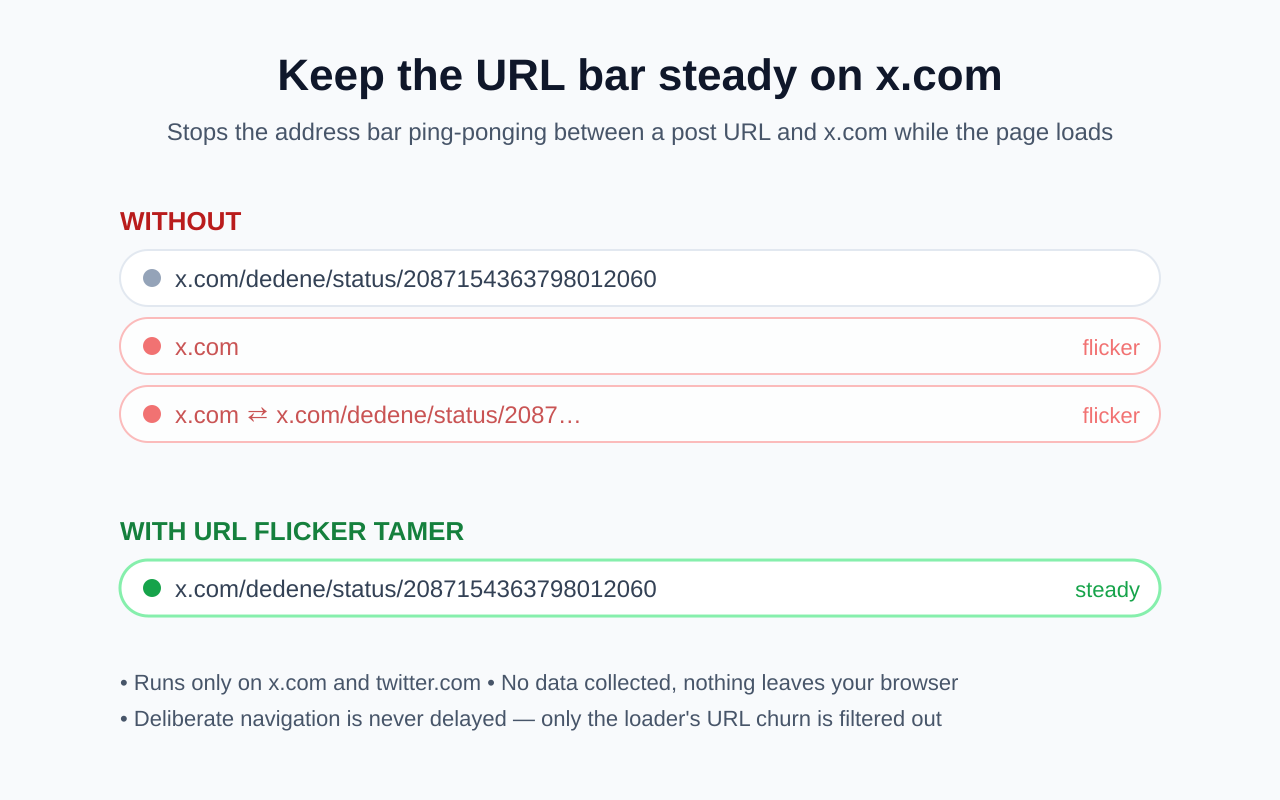
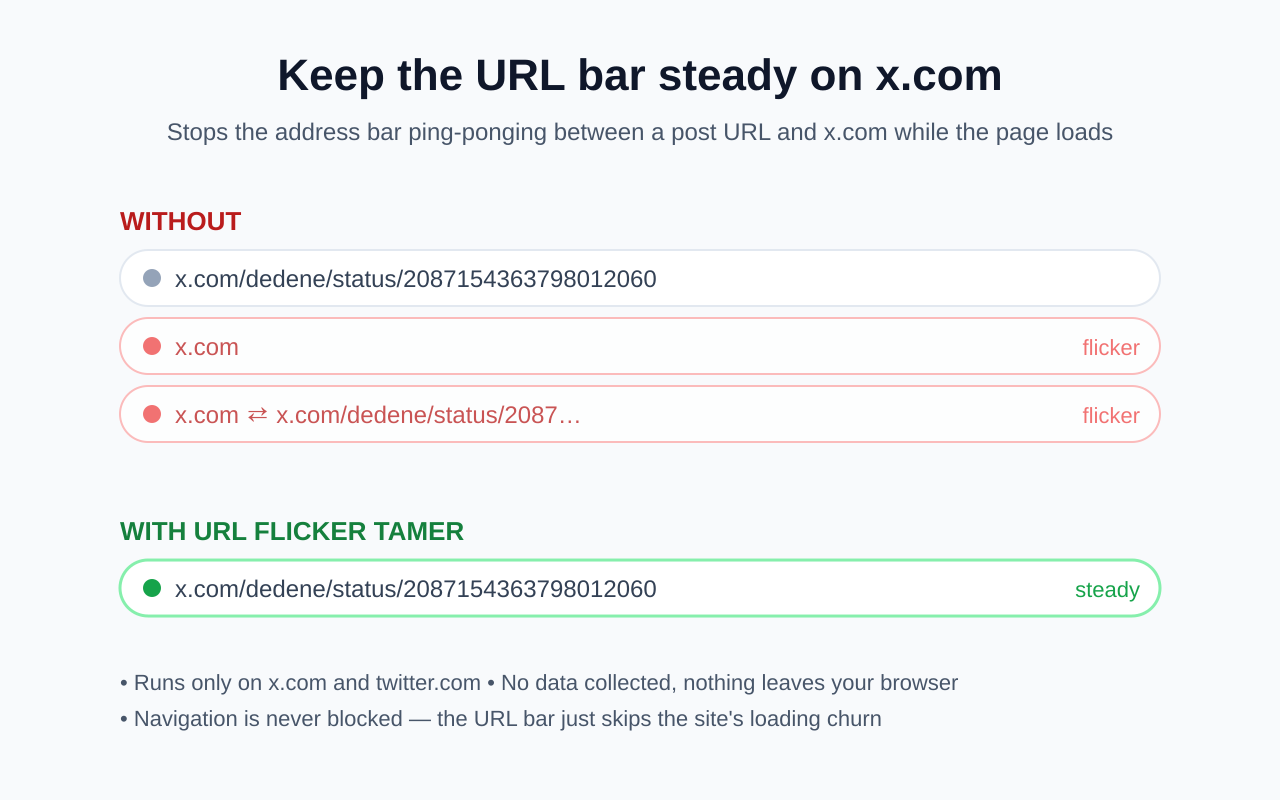
v1.0.1: hold root flips even inside the gesture window
v1.0.0 skipped the hold entirely when a flip-to-root followed a user
gesture within 1s, which let click-navigation flicker through (e.g.
clicking a post from the timeline). Now every root flip is held: 200ms
after a gesture (imperceptible for a genuine Home click, still catches
the tens-of-ms reversal), 400ms otherwise.

Changed region(s): [[0.0938, 0.875, 0.75, 0.9062]]

diff --git a/tamer.js b/tamer.js
@@ -12,19 +12,22 @@
 // that reads as flicker.
 //
 // Strategy: when the router flips the URL to "/" or "/home" while we're on a
-// deeper path AND the user hasn't interacted recently, hold that change for
-// HOLD_MS. If the very next call goes back to a deep URL (the flicker
-// pattern), drop the held root change entirely. If nothing follows, it was a
-// genuine programmatic navigation home — apply it, just HOLD_MS late.
+// deeper path, hold that change briefly. If the very next call goes back to
+// a deep URL (the flicker pattern), drop the held root change entirely. If
+// nothing follows, it was a genuine navigation home — apply it, just late.
 //
-// Deliberate navigations (clicking Home, keyboard shortcuts) always follow a
-// user gesture within milliseconds, so anything within GESTURE_MS of a
-// pointer/key event passes through with zero delay. Hydration churn fires
-// with no gesture anywhere near it, so only it pays the hold.
+// The hold length depends on user gesture: within GESTURE_MS of a click or
+// keypress the flip might be a deliberate "go Home", so hold only
+// GESTURE_HOLD_MS — short enough to be imperceptible on the URL bar, long
+// enough to catch a reversal, which arrives within tens of ms. Gesture-less
+// flips are pure router churn and get the full HOLD_MS. (v1.0.0 skipped the
+// hold entirely inside the gesture window, which let click-navigation
+// flicker through — e.g. clicking a post from the timeline.)
 (() => {
   'use strict';
 
   const HOLD_MS = 400;
+  const GESTURE_HOLD_MS = 200;
   const GESTURE_MS = 1000;
 
   let lastGesture = -Infinity;
@@ -77,14 +80,14 @@
         pending = null;
       }
 
-      const recentGesture = performance.now() - lastGesture < GESTURE_MS;
-      if (isBareRoot(target) && !isBareRoot(location.href) && !recentGesture) {
+      if (isBareRoot(target) && !isBareRoot(location.href)) {
+        const recentGesture = performance.now() - lastGesture < GESTURE_MS;
         pending = {
           native,
           args,
           url: target,
           state: args[0],
-          timer: setTimeout(flushPending, HOLD_MS),
+          timer: setTimeout(flushPending, recentGesture ? GESTURE_HOLD_MS : HOLD_MS),
         };
         return;
       }

diff --git a/README.md b/README.md
@@ -30,12 +30,13 @@ A content script runs at `document_start` in the page's main world and wraps
 `History.prototype.pushState` / `replaceState`:
 
 1. Changes to any deep URL (post, profile, …) apply immediately.
-2. A flip to bare `/` or `/home` within 1s of a user gesture (click,
-   keypress, touch) is treated as deliberate and applies immediately.
-3. A gesture-less flip to bare `/` or `/home` is held for 400ms:
+2. A flip to bare `/` or `/home` is held briefly — 200ms if it follows a
+   user gesture within 1s (it might be a deliberate "go Home"), 400ms if
+   gesture-less (pure router churn):
    - if the next call goes back to a deep URL (the flicker pattern),
      the held flip is dropped — the URL bar never moves;
-   - if nothing follows, it applies late (a genuine programmatic redirect).
+   - if nothing follows, it applies late (a genuine navigation home; the
+     brief URL bar lag is imperceptible since page content isn't delayed).
 
 Safety nets: while a change is held, `history.state` reports the state the
 page thinks it set; held changes are force-flushed on `popstate`/`pagehide`.

diff --git a/store-assets/store-listing.md b/store-assets/store-listing.md
@@ -20,8 +20,9 @@ filters out that churn:
 • A sudden flip to bare x.com with no click or keypress from you is held
   briefly; if the site immediately flips back (the flicker pattern), the
   bounce is discarded and the URL bar never moves.
-• Anything you do deliberately — clicking Home, keyboard shortcuts — is
-  detected via your input and applies with zero delay.
+• Navigation is never blocked: deliberate moves (clicking Home, keyboard
+  shortcuts) show in the URL bar within a fraction of a second, and page
+  content is never delayed at all.
 
 Why this exists: this was built to fix the flicker as seen in Google Chrome
 on Omarchy (Arch Linux + Hyprland, Wayland). The flicker shows up wherever
